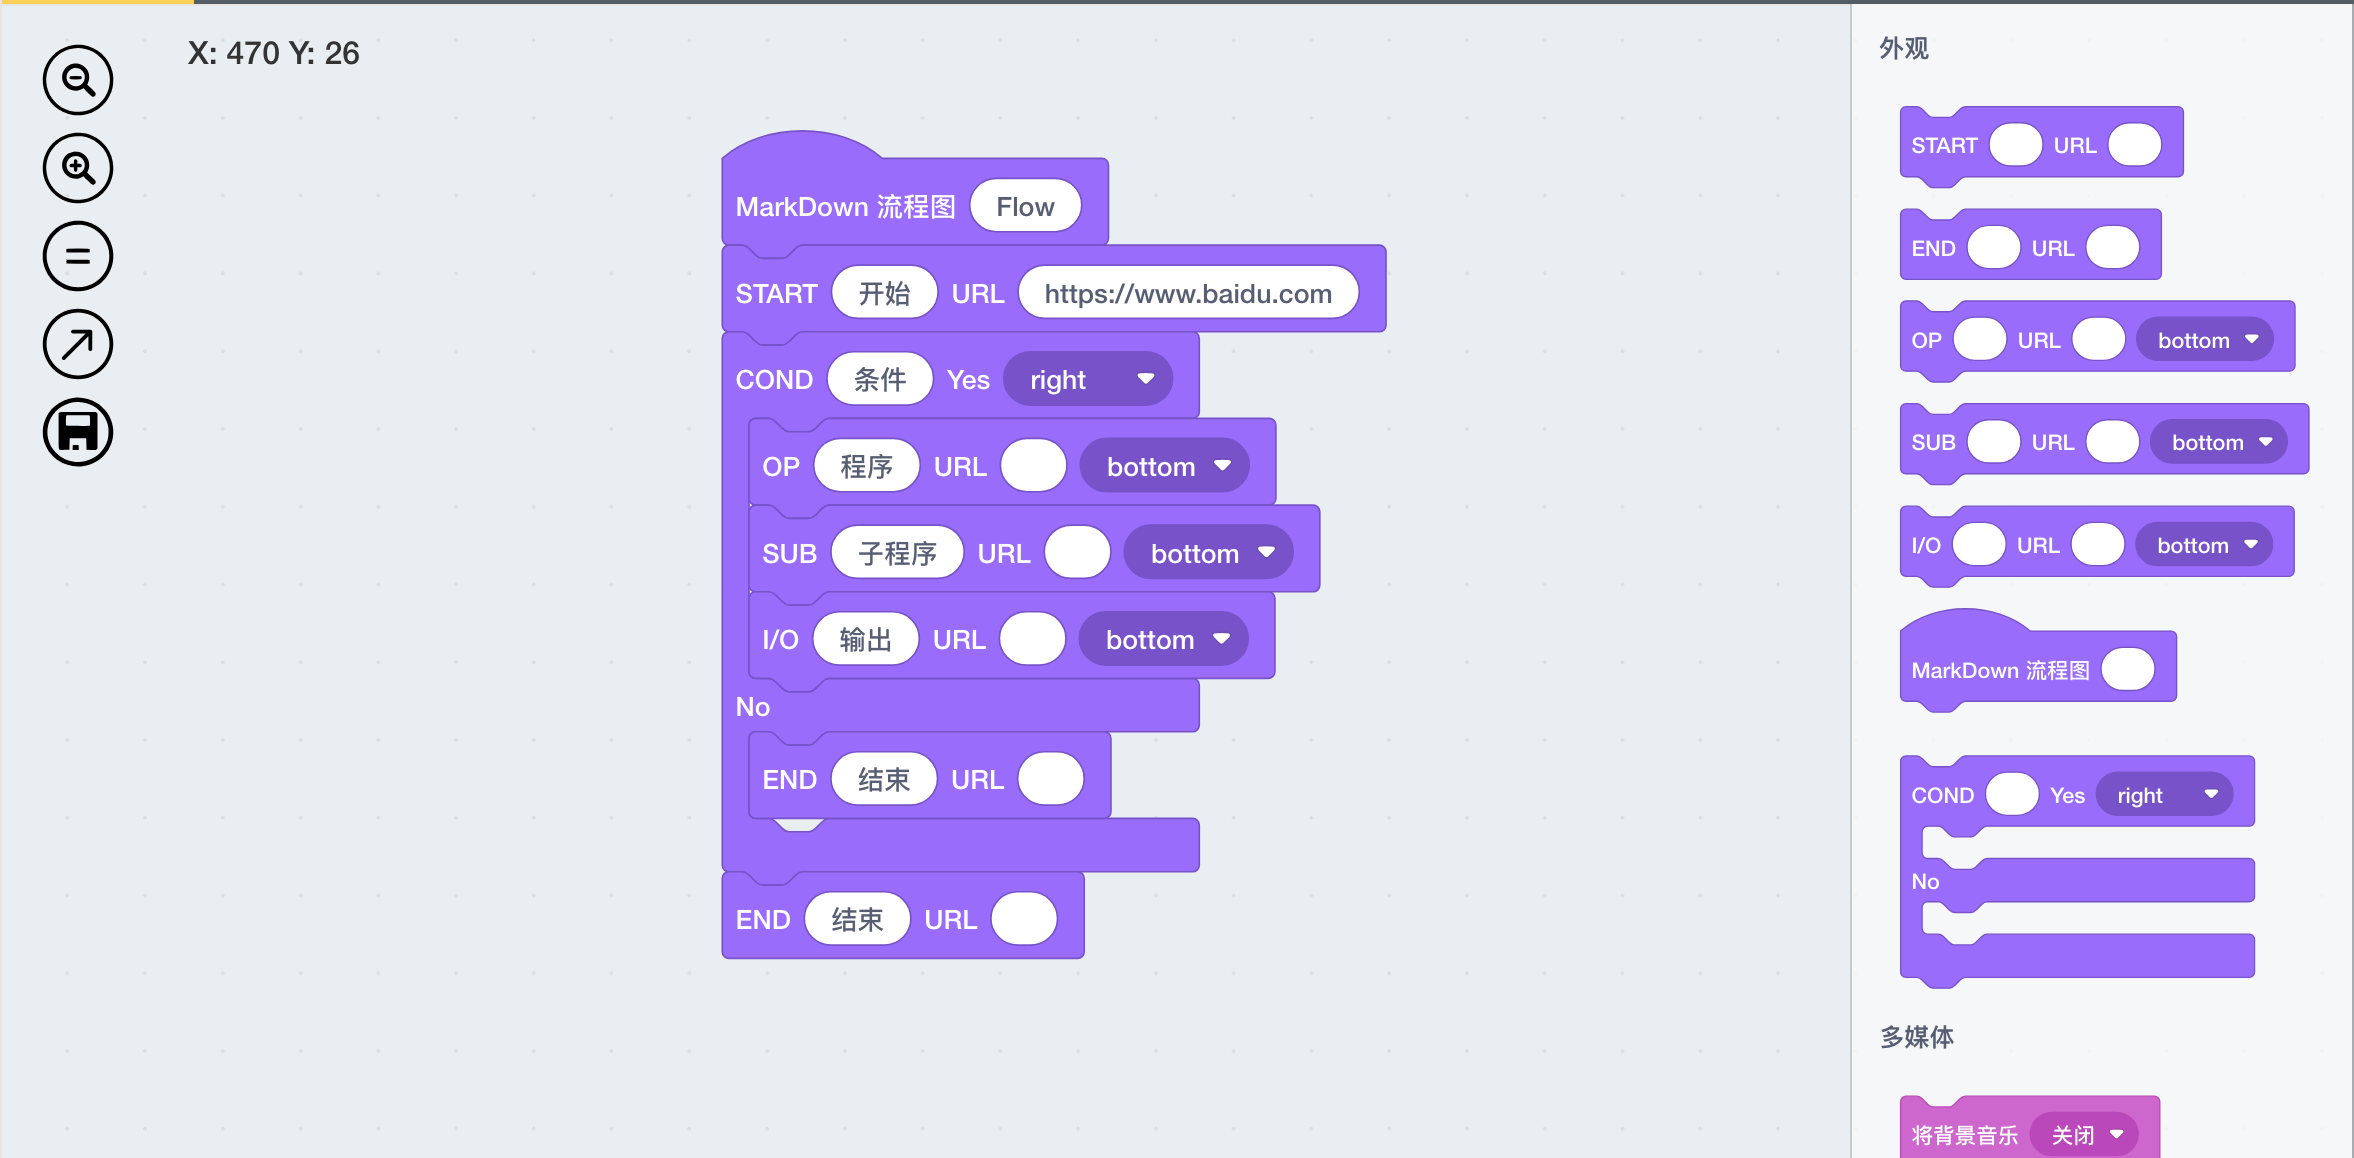
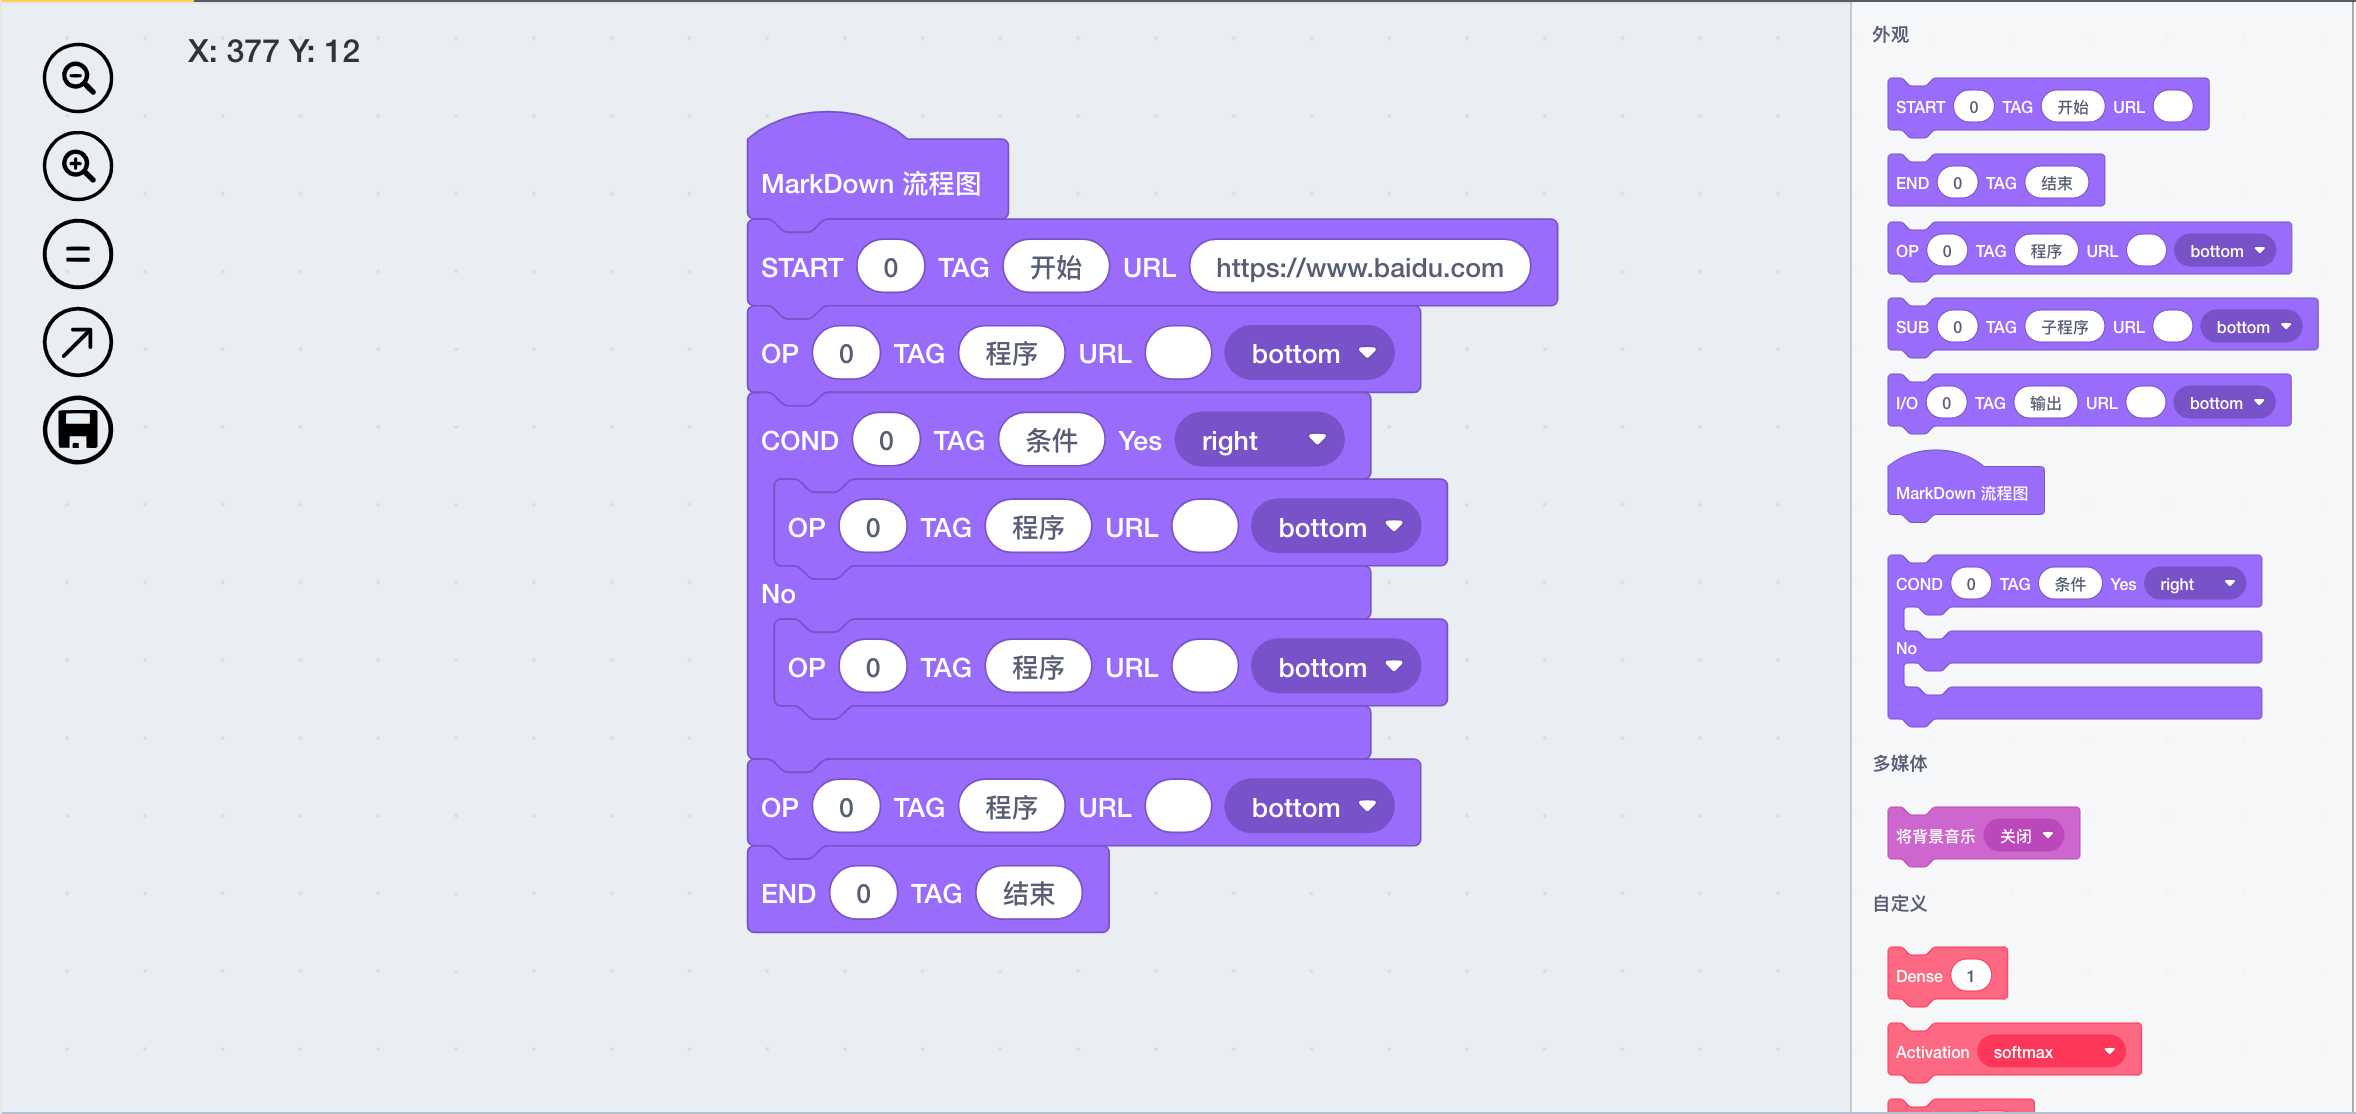
补充说明

diff --git a/client/src/scratch/blocks.js b/client/src/scratch/blocks.js
@@ -57,7 +57,7 @@ class BlockInstance {
     } else if (sec.type === 'argument') {
       if (sec.datatype === 'enum') {
         logger.debug('sectionValue', i, sec)
-        return sec.data.values[sec.data.currentIndex].name
+        return sec.data.values[sec.data.currentIndex]
       } else {
         return sec.data.value
       }

diff --git a/client/src/base.js b/client/src/base.js
@@ -233,10 +233,4 @@ yuchg.concatArray = function(arr1, arr2) {
   return Array.from(new Set(arr))
 }
 
-// 唯一Id
-let _ycUniqueId = 1
-yuchg.uniqueId = function() {
-  return _ycUniqueId++
-}
-
 export default yuchg

diff --git a/client/src/scratch/utils.js b/client/src/scratch/utils.js
@@ -95,7 +95,6 @@ const Utils = {
       bottom: rect.bottom + offsety
     }
   }
-
 }
 
 export default Utils

diff --git a/README.md b/README.md
@@ -102,7 +102,8 @@ Block具有一个可见的外观图形，目前主要有7种：
 
 每个包目录导出一个Block数组，数组的每个元素为一个Block定义。
 Block 定义格式为：
-```json
+
+```
  {
     id: 'move',    // ID
     shape: 'slot',   // 图形形状
@@ -139,7 +140,7 @@ Block 定义格式为：
 机器学习Keras
 ![image](https://github.com/guobinnew/yuchang/blob/master/screenshots/keras.png)
 
-```python
+```
     from keras.models import Sequential
     from keras.layers.core import Dense, Activation
     model = Sequential()
@@ -155,15 +156,18 @@ Block 定义格式为：
 MarkDown流程图
 ![image](https://github.com/guobinnew/yuchang/blob/master/screenshots/flow.png)
 
- ```markdown
-    st=>start: 开始:> http://www.baidu.com
-    e=>end: 结束
-    c1=>condition: 条件
-    op=>operation: 程序
-    sub=>subroutine: 子程序
-    io=>inputoutput: 输出
-    st->c1(yes,right)->op(bottom)->sub(bottom)->io(bottom)->e
-    c1(no)->e
+ ```
+    st8=>start: 开始:> https://www.baidu.com
+    op9=>operation: 程序
+    c10=>condition: 条件
+    op11=>operation: 程序
+    e12=>end: 结束
+    op13=>operation: 程序
+    op14=>operation: 程序
+    st8->op9(bottom)->c10
+    c10(no)->op14(bottom)->op11
+    c10(yes, right)->op13(bottom)->op11
+    op11(bottom)->e12
  ```
 
 ## Demo运行步骤
